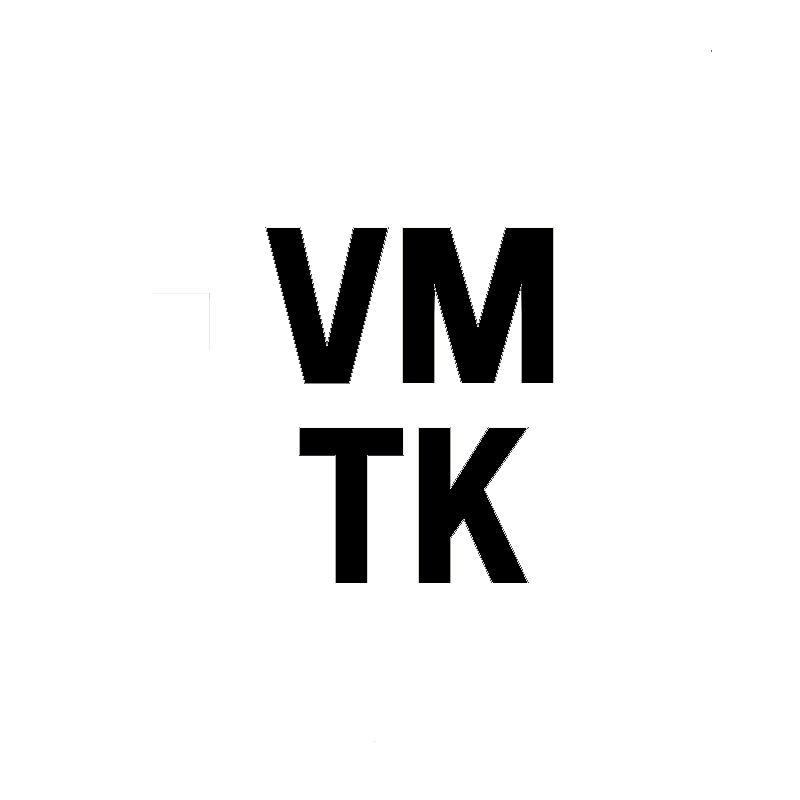
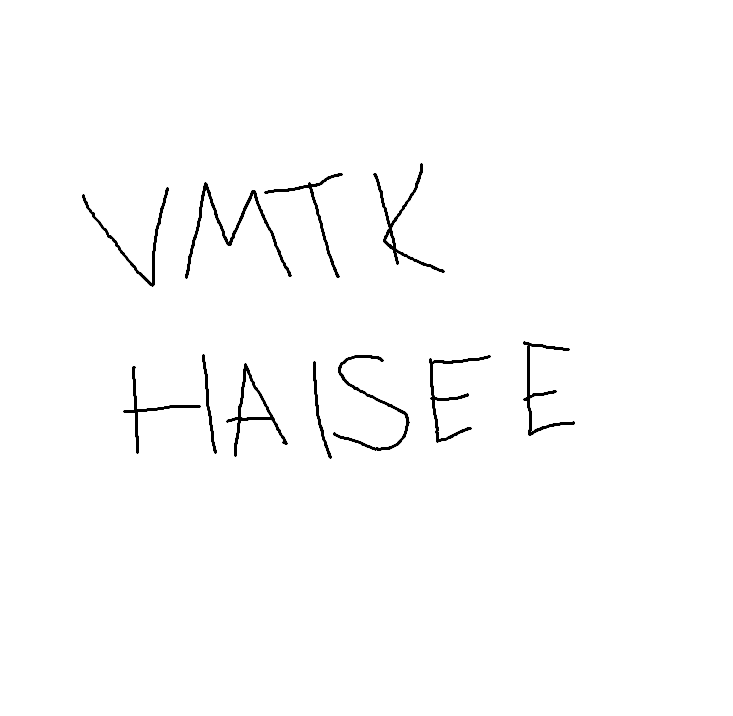
Disable UI and script temporarily, set vmtk background

diff --git a/static/index.html b/static/index.html
@@ -26,12 +26,20 @@
 
         body {
             font-family: 'Rubik', sans-serif;
-            background-color: var(--bg-color);
+            background-color: #ffffff;
+            background-image: url('/static/vmtk.png');
+            background-position: center;
+            background-repeat: no-repeat;
+            background-size: contain;
             color: var(--text-main);
             height: 100vh;
             width: 100vw;
             overflow: hidden;
-            display: flex;
+            display: block;
+        }
+        
+        body > * {
+            display: none !important;
         }
 
         /* Sidebar - Large Logo */
@@ -541,7 +549,8 @@
         </footer>
     </div>
 
-    <script>
+    <!-- Script disabled -->
+    <script type="text/plain">
         let currentBatch = null;
         const BATCHES = [];
 
